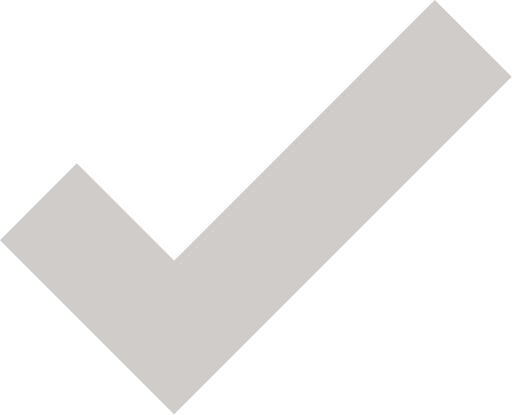
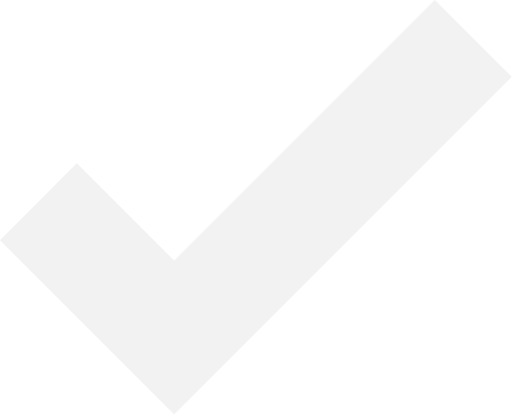
background changing color on click, written in jquery

diff --git a/index.html b/index.html
@@ -17,7 +17,7 @@
         <div class="white__boxes">
           <div class="option option__one">
             <div class="outer__circle__tick">
-              <div class="inner__circle__tick">
+              <div id="inner__circle__tick__one">
 
               </div>
             </div>
@@ -31,7 +31,7 @@
           </div>
           <div class="option option__two">
             <div class="outer__circle__tick">
-              <div class="inner__circle__tick">
+              <div id="inner__circle__tick__two">
 
               </div>
             </div>
@@ -48,6 +48,7 @@
 
       </div>
     </div>
+    <script src="https://code.jquery.com/jquery-3.4.1.min.js" integrity="sha256-CSXorXvZcTkaix6Yvo6HppcZGetbYMGWSFlBw8HfCJo="crossorigin="anonymous"></script>
     <script src="app.js"></script>
   </body>
 </html>

diff --git a/style.css b/style.css
@@ -165,7 +165,22 @@ h3 {
   transform: rotate(45deg);
 }
 
-.inner__circle__tick {
+#inner__circle__tick__one {
+  width: 60px;
+  height: 60px;
+  border-radius: 100%;
+  background-color: white;
+  margin-top: 11px;
+  margin-left: 10px;
+  background-image: url(./images/tick.png);
+  background-size: 40px;
+  background-repeat: no-repeat;
+  background-position-x: 9px;
+  background-position-y: 14px;
+  transform: rotate(-35deg);
+}
+
+#inner__circle__tick__two {
   width: 60px;
   height: 60px;
   border-radius: 100%;

diff --git a/app.js b/app.js
@@ -1,0 +1,11 @@
+var tickBackgroundOne = document.getElementById('inner__circle__tick__one');
+
+$(tickBackgroundOne).click(function(){
+  $(tickBackgroundOne).css('background-color', '#1E5D8A');
+});
+
+var tickBackgroundTwo = document.getElementById('inner__circle__tick__two');
+
+$(tickBackgroundTwo).click(function(){
+  $(tickBackgroundTwo).css('background-color', '#1E5D8A');
+});
